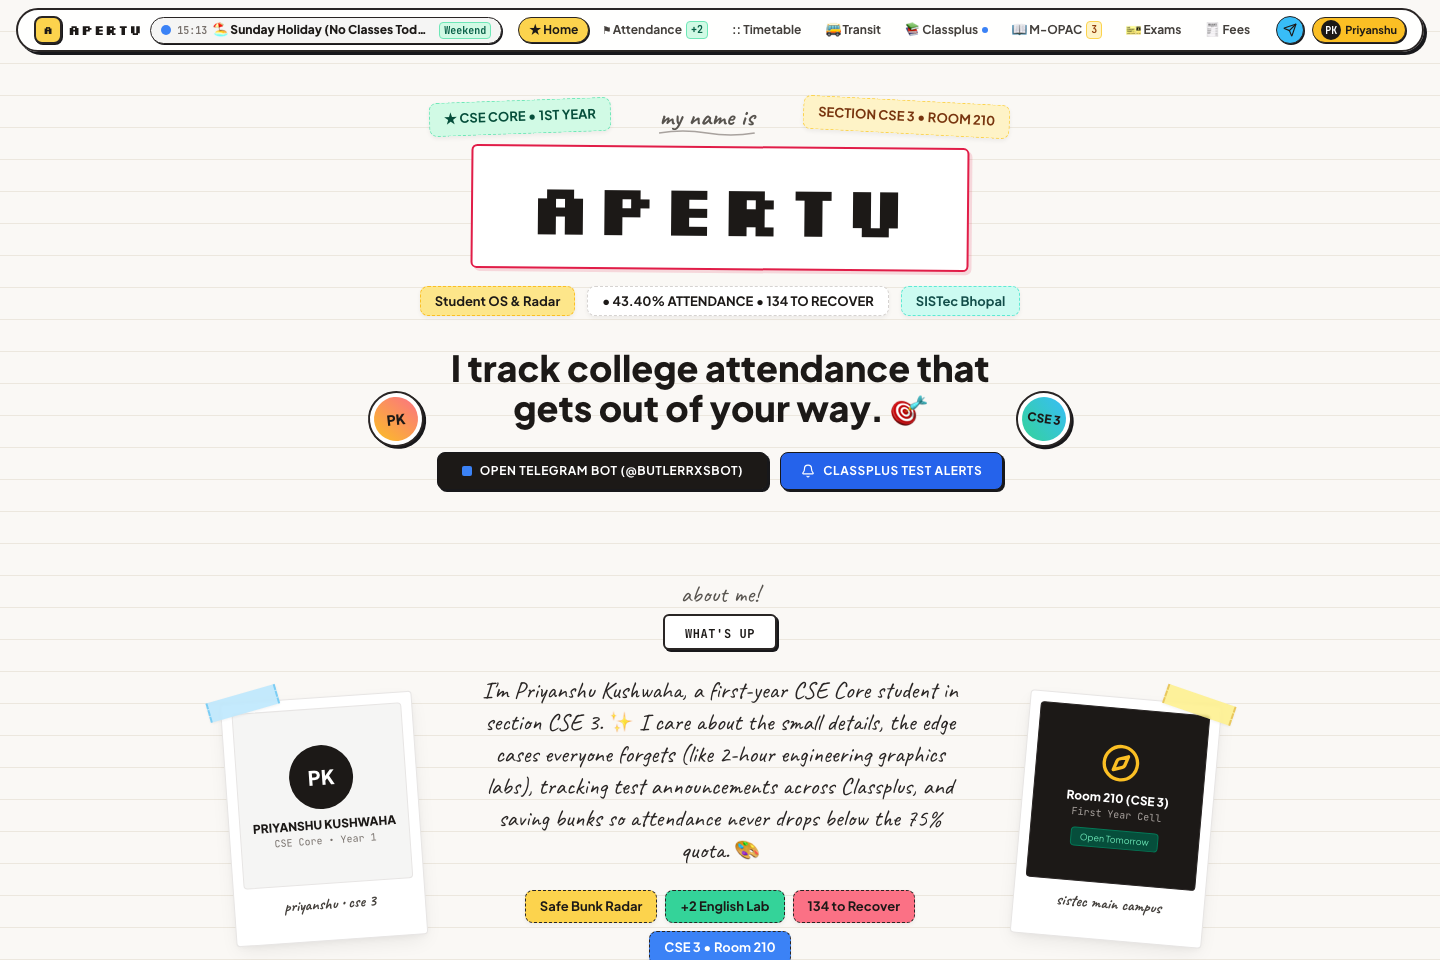
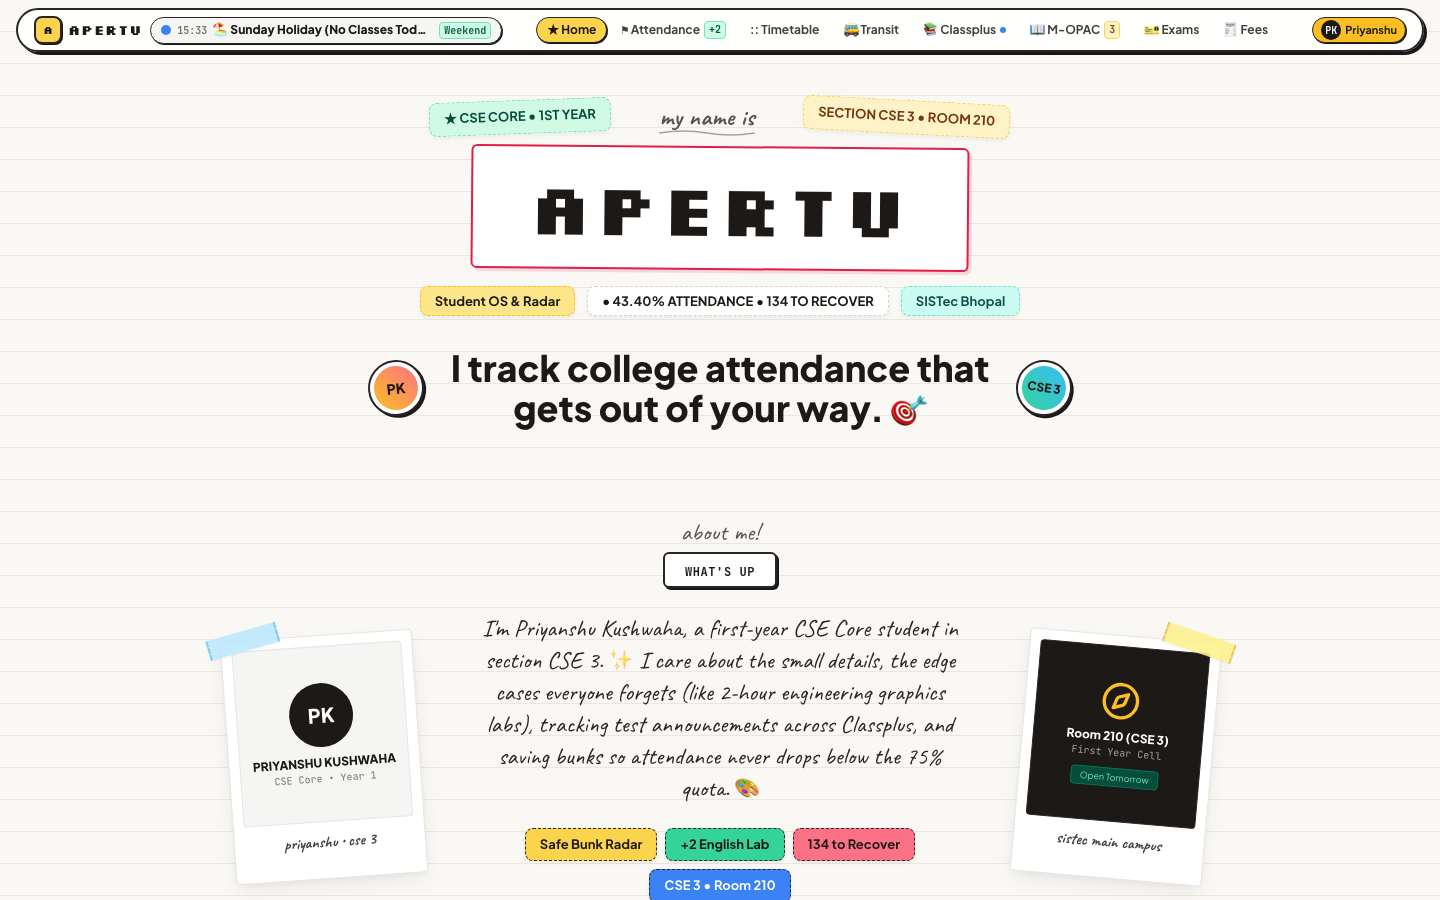
fix: remove Telegram bot and Classplus test notification tab from homepage

diff --git a/index.html b/index.html
@@ -275,11 +275,8 @@
         </button>
       </nav>
 
-      <!-- Right: User Avatar & Quick Telegram Bot Pill -->
+      <!-- Right: User Avatar -->
       <div class="flex items-center gap-1.5 sm:gap-2 shrink-0">
-        <a href="https://t.me/Butlerrxsbot" target="_blank" class="w-6 h-6 sm:w-7 sm:h-7 rounded-full bg-sky-400 border border-stone-800 flex items-center justify-center text-stone-900 hover:scale-110 transition shadow-[1px_1px_0px_#18181b]" title="Telegram Bot @Butlerrxsbot">
-          <i data-lucide="send" class="w-3 h-3 sm:w-3.5 sm:h-3.5"></i>
-        </a>
         <div onclick="navigateTo('profile')" class="flex items-center gap-1 bg-amber-400 hover:bg-amber-500 border border-stone-800 rounded-full px-1.5 sm:px-2 py-0.5 cursor-pointer transition shadow-[1px_1px_0px_#18181b] shrink-0" title="Priyanshu Kushwaha (CSE Core)">
           <div class="w-4 h-4 sm:w-5 sm:h-5 rounded-full bg-stone-900 text-white font-mono text-[9px] sm:text-[10px] font-bold flex items-center justify-center">
             PK
@@ -369,17 +366,7 @@
             </div>
           </div>
 
-          <!-- Contact / Launch Bot Button -->
-          <div class="mt-6 flex justify-center gap-3">
-            <a href="https://t.me/Butlerrxsbot" target="_blank" class="tactile-btn bg-stone-900 text-white font-bold text-xs uppercase tracking-wider px-6 py-2.5 rounded-lg flex items-center gap-2">
-              <span class="w-2.5 h-2.5 bg-blue-500 rounded-sm"></span>
-              <span>Open Telegram Bot (@Butlerrxsbot)</span>
-            </a>
-            <button onclick="navigateTo('classplus')" class="tactile-btn bg-blue-600 text-white font-bold text-xs uppercase tracking-wider px-5 py-2.5 rounded-lg flex items-center gap-2">
-              <i data-lucide="bell" class="w-3.5 h-3.5"></i>
-              <span>Classplus Test Alerts</span>
-            </button>
-          </div>
+
 
         </div>
 
@@ -597,67 +584,6 @@
           </div>
         </div>
 
-        <!-- FOLDER 03: CLASSPLUS APP HUB -->
-        <div class="folder-container bg-blue-600 text-white p-6 sm:p-10 relative">
-          <div class="folder-tab bg-blue-600 text-white border-blue-600">
-            <span>● MODULE 03</span>
-            <span class="text-blue-200">/</span>
-            <span>CLASSPLUS PORTAL & TESTS</span>
-          </div>
-
-          <div class="grid grid-cols-1 lg:grid-cols-12 gap-8 items-center">
-            <div class="lg:col-span-5 space-y-4">
-              <span class="text-xs font-mono text-blue-200 uppercase tracking-widest block font-bold">
-                ● CLASSPLUS BATCH ENGINE
-              </span>
-              <h3 class="text-3xl sm:text-4xl font-extrabold tracking-tight">
-                Classplus Hub 📚
-              </h3>
-              <p class="text-blue-100 text-sm leading-relaxed">
-                Connect your Classplus batches to receive instant alerts on Telegram when new tests or quizzes are uploaded, track course notes, and submit assignments.
-              </p>
-              
-              <div class="pt-2">
-                <button onclick="navigateTo('classplus')" class="tactile-btn bg-white text-blue-900 text-xs font-black uppercase tracking-wider px-5 py-2.5 rounded-lg flex items-center gap-2">
-                  <span>Open Classplus Portal</span>
-                  <i data-lucide="arrow-right" class="w-3.5 h-3.5"></i>
-                </button>
-              </div>
-            </div>
-
-            <div class="lg:col-span-7 grid grid-cols-1 sm:grid-cols-2 gap-4">
-              <div class="bg-stone-900 text-white border-2 border-stone-900 rounded-xl p-4 relative shadow-[3px_3px_0px_#18181b]">
-                <div class="washi-tape washi-yellow tape-tl"></div>
-                <div class="flex justify-between items-start mb-2">
-                  <span class="font-black text-amber-400 text-sm">Upcoming Test Alert</span>
-                  <span class="stamp-pill bg-rose-500 text-white text-[10px] py-0.5 px-2">LIVE</span>
-                </div>
-                <p class="text-xs text-stone-300 font-medium leading-relaxed">
-                  <b>Mathematics-1 Quiz</b><br>
-                  Limits & Matrices • Scheduled for Nov 14, 2026.
-                </p>
-                <div class="mt-3 flex items-center gap-2 text-[11px] text-emerald-400 font-mono">
-                  <i data-lucide="bell" class="w-3 h-3"></i> Telegram Alert: Active
-                </div>
-              </div>
-
-              <div class="bg-stone-900 text-white border-2 border-stone-900 rounded-xl p-4 relative shadow-[3px_3px_0px_#18181b]">
-                <div class="washi-tape washi-pink tape-tr"></div>
-                <div class="flex justify-between items-start mb-2">
-                  <span class="font-black text-sky-400 text-sm">Active Batches</span>
-                  <span class="stamp-pill bg-blue-500 text-white text-[10px] py-0.5 px-2">4 BATCHES</span>
-                </div>
-                <p class="text-xs text-stone-300 font-medium leading-relaxed">
-                  CSE Core 1st Year, C Programming Lab, BEEE, and CRT Soft Skills.
-                </p>
-                <div class="mt-3 text-[11px] text-stone-400 font-mono">
-                  Org Code: <b>SISTEC</b>
-                </div>
-              </div>
-            </div>
-          </div>
-        </div>
-
       </div>
 
     </section>
@@ -848,7 +774,7 @@
         <div class="flex items-center gap-2">
           <button onclick="triggerTestAlertMock()" class="tactile-btn bg-blue-600 text-white text-xs font-black px-4 py-2 rounded-lg flex items-center gap-2">
             <i data-lucide="bell-ring" class="w-4 h-4"></i>
-            <span>Test Telegram Alert</span>
+            <span>Simulate Test Alert</span>
           </button>
         </div>
       </div>
@@ -862,9 +788,9 @@
               <span class="w-2 h-2 rounded-full bg-blue-600 animate-pulse"></span>
               Live Classplus Webhook Notification
             </div>
-            <h3 class="text-xl font-black text-stone-900">Instant Telegram Alert for Newly Arrived Tests</h3>
+            <h3 class="text-xl font-black text-stone-900">Instant Alert for Newly Arrived Tests</h3>
             <p class="text-xs text-stone-600 mt-1">
-              Whenever faculty posts an online quiz, test, or practice assignment on Classplus, an immediate ping is delivered to <b>@Butlerrxsbot</b> with syllabus, duration, and test deadline.
+              Whenever faculty posts an online quiz, test, or practice assignment on Classplus, an immediate notification is delivered with syllabus, duration, and test deadline.
             </p>
           </div>
           <div class="flex items-center gap-3">
@@ -906,7 +832,7 @@
               </div>
               <div class="mt-3 pt-3 border-t border-stone-200 flex items-center justify-between text-xs">
                 <span class="text-emerald-700 font-bold flex items-center gap-1">
-                  <i data-lucide="check-circle" class="w-3.5 h-3.5"></i> Telegram Notification Synced
+                  <i data-lucide="check-circle" class="w-3.5 h-3.5"></i> Notification Synced
                 </span>
                 <button onclick="alert('Test study syllabus & formula sheet opened!')" class="tactile-btn bg-stone-900 text-white font-bold text-[11px] px-3 py-1 rounded-md">
                   View Syllabus
@@ -1729,8 +1655,6 @@
       <span class="font-bold text-stone-900">APERTU OS • PRIYANSHU KUSHWAHA (CSE CORE)</span>
     </div>
     <div class="flex items-center gap-4">
-      <a href="https://t.me/Butlerrxsbot" target="_blank" class="hover:text-stone-900 font-bold underline">Telegram Bot (@Butlerrxsbot)</a>
-      <span>•</span>
       <a href="https://www.sagartracker.xyz" target="_blank" class="hover:text-stone-900 font-bold underline">SagarTracker.xyz</a>
       <span>•</span>
       <span>2026</span>
@@ -1825,7 +1749,7 @@
 
     function triggerTestAlertMock() {
       confetti({ particleCount: 60, spread: 70, origin: { y: 0.4 } });
-      alert('🔔 Telegram Notification Sent to @Butlerrxsbot:\n\n"New Test Posted: Engineering Mathematics – 1: Quiz 02 (Nov 14, 2026, 60 Mins, 40 Marks). Check Apertu Classplus Hub!"');
+      alert('🔔 Webhook Notification Received:\n\n"New Test Posted: Engineering Mathematics – 1: Quiz 02 (Nov 14, 2026, 60 Mins, 40 Marks). Check Apertu Classplus Hub!"');
     }
 
     function addBatchCodeMock() {
